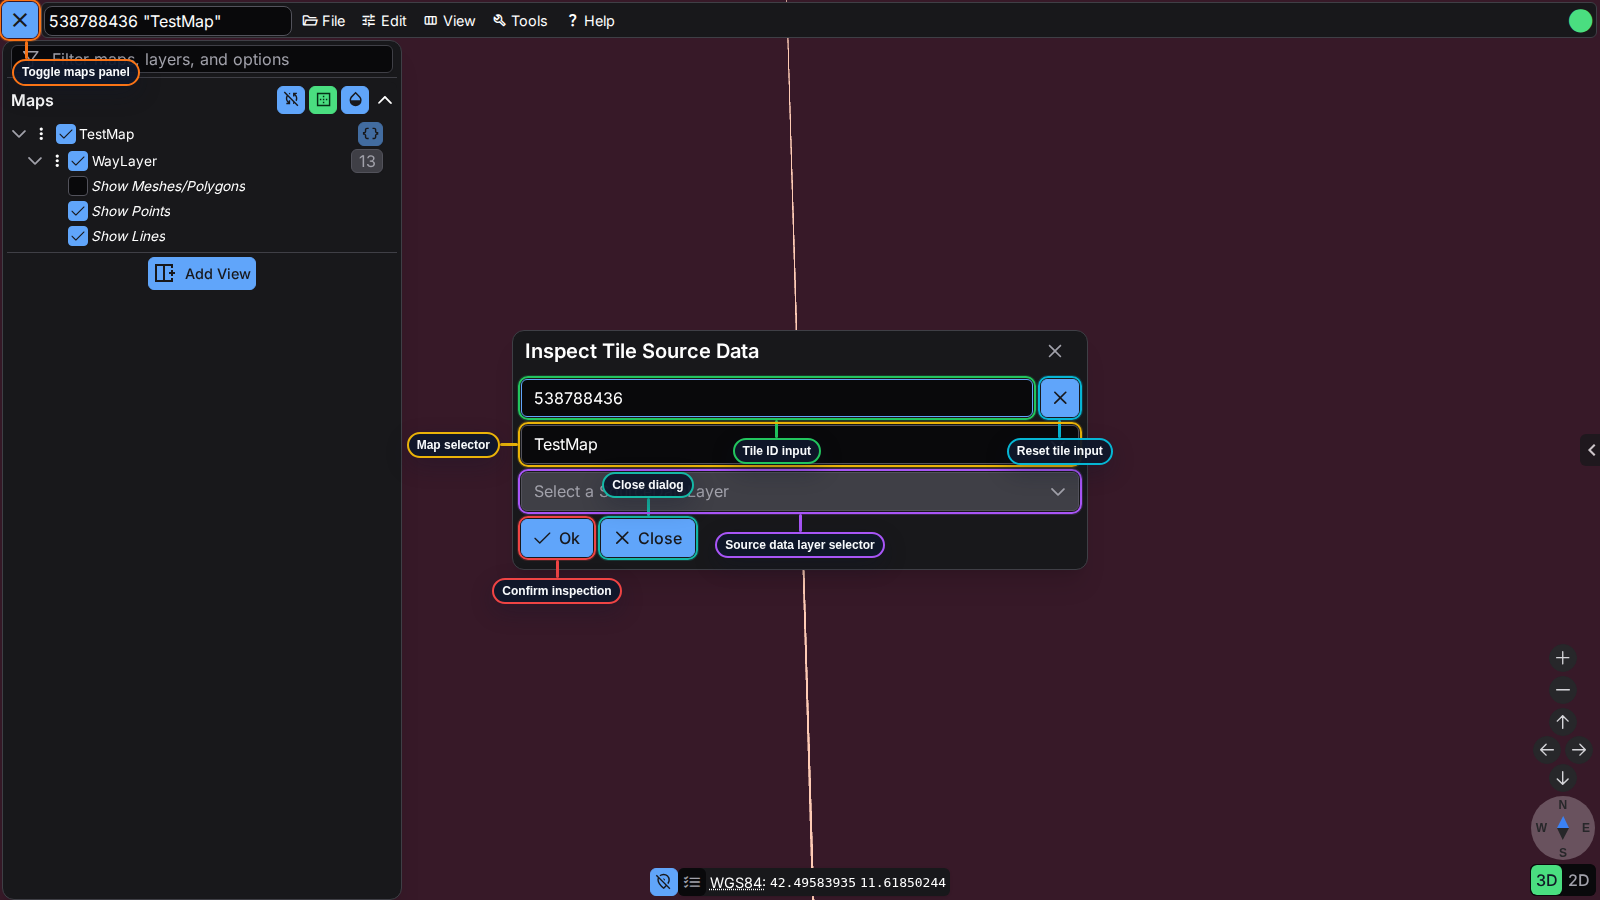
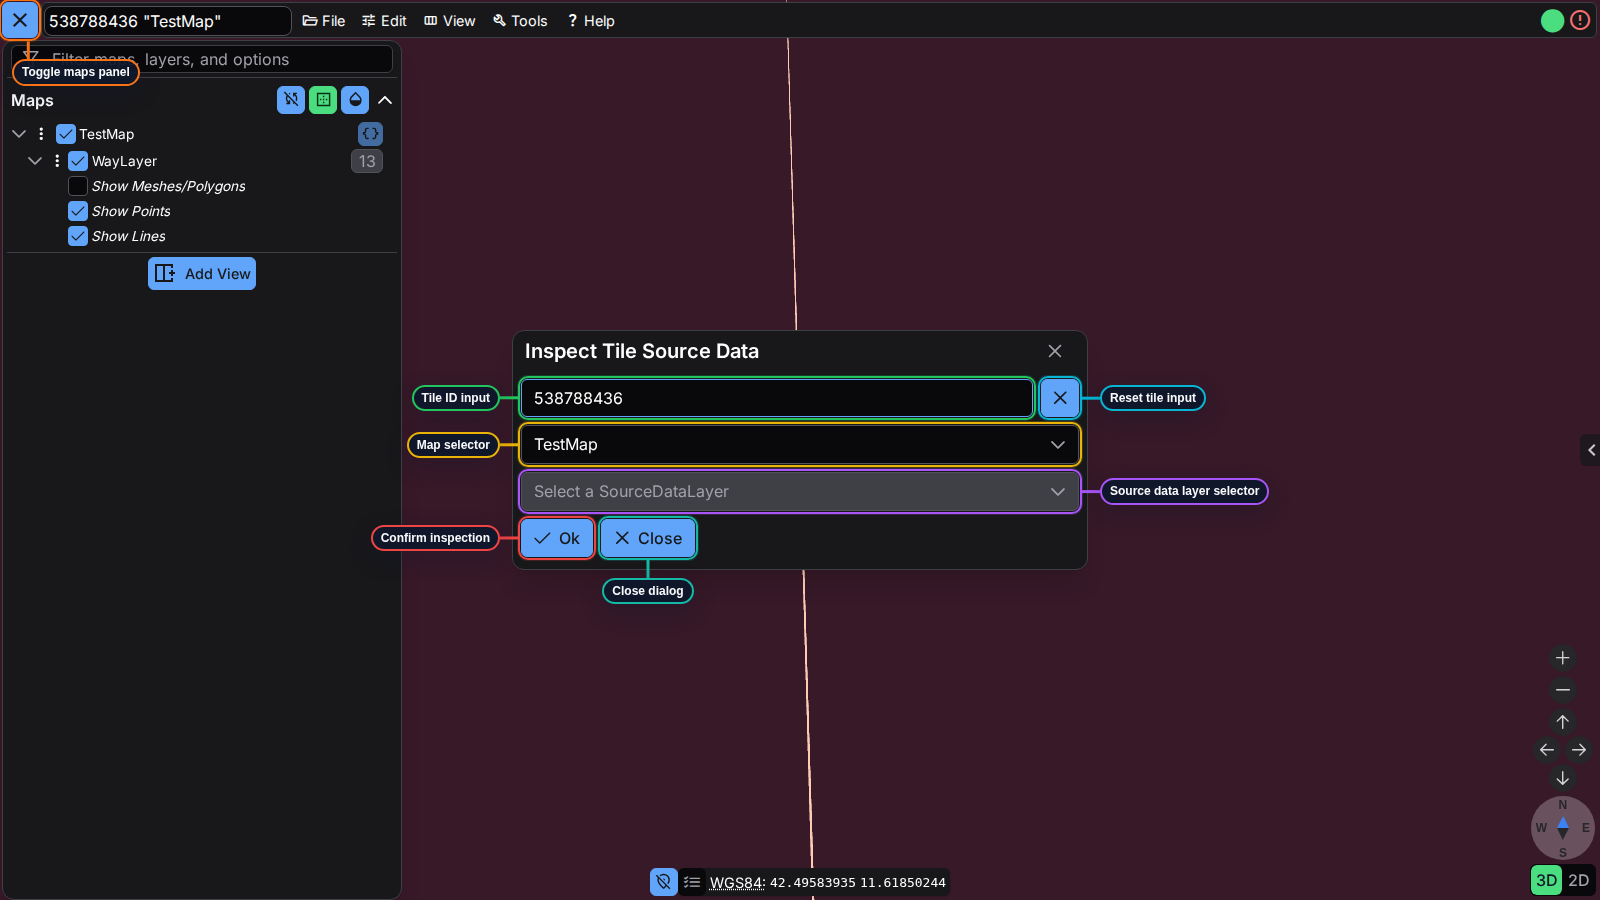
test: repair cross-browser documentation captures and search snapshots

diff --git a/playwright/snap-tests/map-panel-source-data.snap.spec.ts b/playwright/snap-tests/map-panel-source-data.snap.spec.ts
@@ -84,27 +84,33 @@ test.describe('Snapshot – map panel and source data selection dialog', () => {
             },
             {
                 locator: sourceDataDialog.getByTestId('source-data-selection-custom-tile-id'),
-                label: 'Tile ID input'
+                label: 'Tile ID input',
+                placement: 'left'
             },
             {
                 locator: sourceDataDialog.getByTestId('source-data-selection-toggle-custom-tile-id'),
-                label: 'Reset tile input'
+                label: 'Reset tile input',
+                placement: 'right'
             },
             {
                 locator: sourceDataDialog.getByTestId('source-data-selection-map-select'),
-                label: 'Map selector'
+                label: 'Map selector',
+                placement: 'left'
             },
             {
                 locator: sourceDataDialog.getByTestId('source-data-selection-layer-select'),
-                label: 'Source data layer selector'
+                label: 'Source data layer selector',
+                placement: 'right'
             },
             {
                 locator: sourceDataDialog.getByTestId('source-data-selection-confirm-button'),
-                label: 'Confirm inspection'
+                label: 'Confirm inspection',
+                placement: 'left'
             },
             {
                 locator: sourceDataDialog.getByTestId('source-data-selection-close-button'),
-                label: 'Close dialog'
+                label: 'Close dialog',
+                placement: 'bottom'
             }
         ]);
     });

diff --git a/playwright/snap-tests/search-component.snap.spec.ts b/playwright/snap-tests/search-component.snap.spec.ts
@@ -59,7 +59,7 @@ test.describe('Snapshot – search component', () => {
 
         const resultsTab = page.getByRole('tab', { name: /^Results / });
         const diagnosticsTab = page.getByRole('tab', { name: /^Diagnostics / });
-        const closeButton = featureSearchDialog.locator('.p-dialog-header button').first();
+        const closeButton = featureSearchDialog.getByTestId('surface-close-button');
 
         await page.mouse.move(0, 0);
         await captureDocsScreenshotWithLabels(page, 'docs/screenshots/search-component-controls.png', [
@@ -81,7 +81,8 @@ test.describe('Snapshot – search component', () => {
             },
             {
                 locator: closeButton,
-                label: 'Close search dialog'
+                label: 'Close search dialog',
+                placement: 'right'
             }
         ]);
     });

diff --git a/playwright/utils/ui-helpers.ts b/playwright/utils/ui-helpers.ts
@@ -827,11 +827,9 @@ export async function captureDocsScreenshotWithLabels(
         }, {entries: labelBoxes, strict, fontSize});
 
         const browserName = page.context().browser()?.browserType().name();
-        if (browserName === 'chromium') {
-            await page.screenshot({
-                path: screenshotPath
-            });
-        }
+        // Exercise the capture in every browser, but only publish one browser's
+        // image to the shared documentation path.
+        await page.screenshot({path: browserName === 'chromium' ? screenshotPath : undefined});
     } finally {
         await page.evaluate(() => {
             document.getElementById('__erdblick-doc-labels__')?.remove();

diff --git a/app/shared/app-surface-header.component.ts b/app/shared/app-surface-header.component.ts
@@ -150,6 +150,7 @@ export interface AppSurfaceHeaderAction {
                 }
                 @if (closeVisible) {
                     <p-button icon="pi pi-times"
+                              data-testid="surface-close-button"
                               severity="secondary"
                               [disabled]="closeDisabled"
                               [pTooltip]="closeTooltip"
